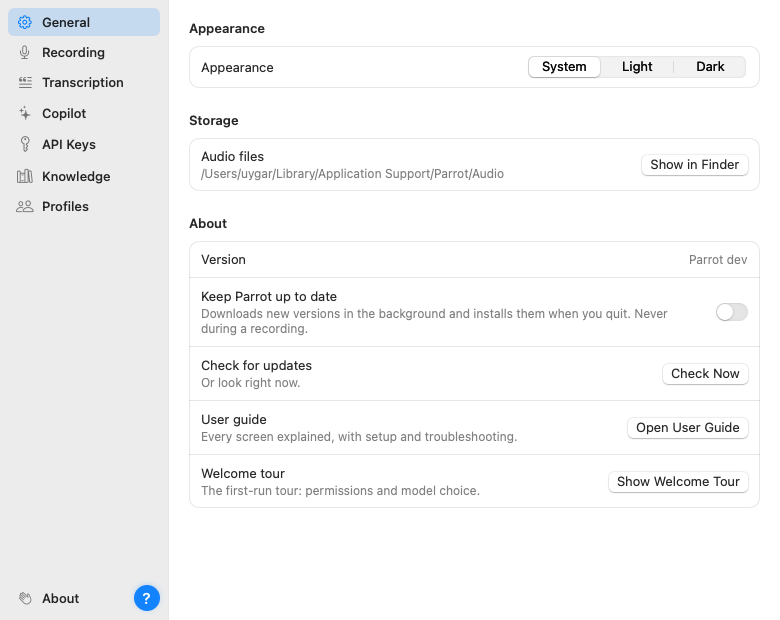
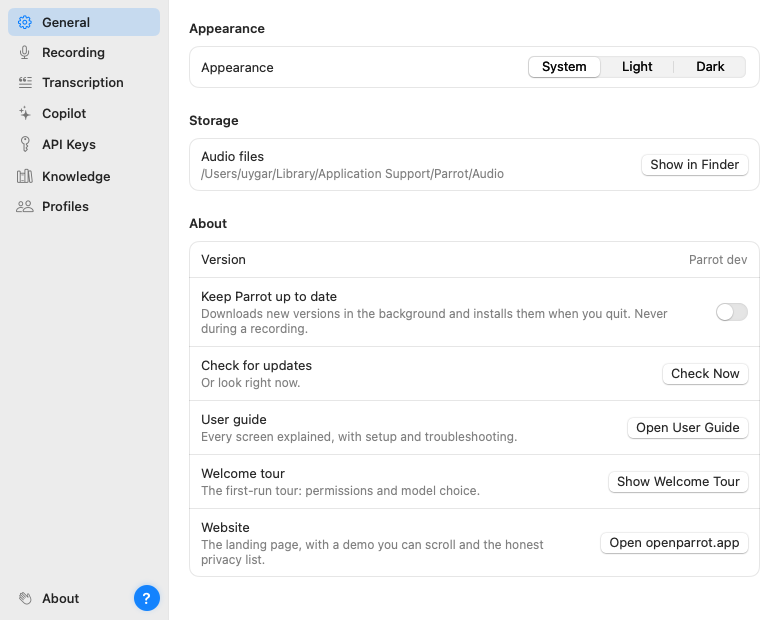
Website: openparrot.app in the README, help pages, Help menu and Settings → About

Changed region(s): [[0.2462, 0.7968, 0.9538, 0.9194], [0.7692, 0.8581, 0.9538, 0.8887]]

diff --git a/Parrot/Views/AppCommands.swift b/Parrot/Views/AppCommands.swift
@@ -28,6 +28,8 @@ extension Notification.Name {
 @MainActor
 enum MeetingActions {
     nonisolated static let repoURL = "https://github.com/turantekin/Parrot"
+    /// The landing page: a scrolling demo, the honest privacy list, and the download.
+    nonisolated static let websiteURL = "https://openparrot.app"
 
     static func exportTXT(_ meeting: Meeting) {
         write(ExportService.exportToTXT(meeting: meeting), for: meeting, ext: "txt")
@@ -165,6 +167,9 @@ struct ParrotCommands: Commands {
             }
             Button("Parrot Help on the Web") {
                 MeetingActions.open("https://turantekin.github.io/Parrot/help/")
+            }
+            Button("Parrot Website") {
+                MeetingActions.open(MeetingActions.websiteURL)
             }
             Button("Show Welcome Tour") {
                 MeetingActions.showWelcomeTour()

diff --git a/Parrot/Views/SettingsView.swift b/Parrot/Views/SettingsView.swift
@@ -256,6 +256,9 @@ struct SettingsView: View {
                 SettingsLabeledRow(title: "Welcome tour", detail: "The first-run tour: permissions and model choice.") {
                     Button("Show Welcome Tour") { MeetingActions.showWelcomeTour() }
                 }
+                SettingsLabeledRow(title: "Website", detail: "The landing page, with a demo you can scroll and the honest privacy list.") {
+                    Button("Open openparrot.app") { MeetingActions.open(MeetingActions.websiteURL) }
+                }
             }
         }
     }

diff --git a/docs/help/hi.html b/docs/help/hi.html
@@ -35,6 +35,7 @@ bugs. Both help.</p>
 
 <h2>Say hi</h2>
 <ul>
+  <li>The website: <a href="https://openparrot.app">openparrot.app</a></li>
   <li>Find me here: <a href="https://linktr.ee/turantekin">linktr.ee/turantekin</a></li>
   <li>Email me: <a href="mailto:uygar@turantekin.co.uk">uygar@turantekin.co.uk</a></li>
   <li>Found a bug or have an idea?

diff --git a/docs/help/index.html b/docs/help/index.html
@@ -55,6 +55,7 @@ and even then only transcript text is sent, never audio.</p>
 <footer>
 Parrot is free and open source.
 <a href="https://github.com/turantekin/Parrot">github.com/turantekin/Parrot</a>
+&middot; <a href="https://openparrot.app">openparrot.app</a>
 </footer>
 
 </body>

diff --git a/README.md b/README.md
@@ -2,6 +2,8 @@
 
 **A live AI copilot for your calls that runs on your Mac — and never sends your calls anywhere.**
 
+**Website:** [openparrot.app](https://openparrot.app) · **Download:** [latest release](https://github.com/turantekin/Parrot/releases) · **Guide:** [Parrot Help](https://turantekin.github.io/Parrot/help/)
+
 While you're on a Google Meet, Zoom, or any call, Parrot listens along and helps in real time: when the other side asks something, a suggested answer appears — grounded in *your* documents, your pricing, your FAQ. Objections get pinned on screen until you've handled them. Action items are captured the moment you promise them. A live score and a one-line coach tell you how the call is going while it's still going. And when you hang up, the report is already being written.
 
 Underneath it is a fully private recorder: on-device transcription (WhisperKit), both sides of the call, no cloud, no account, no data leaving your machine. The copilot's brain is your choice — **Claude** with your own key, or a **local model through Ollama, which makes the entire thing free and offline**. Either way you get a pause button, pace controls, and a per-call cost breakdown down to the cent.
